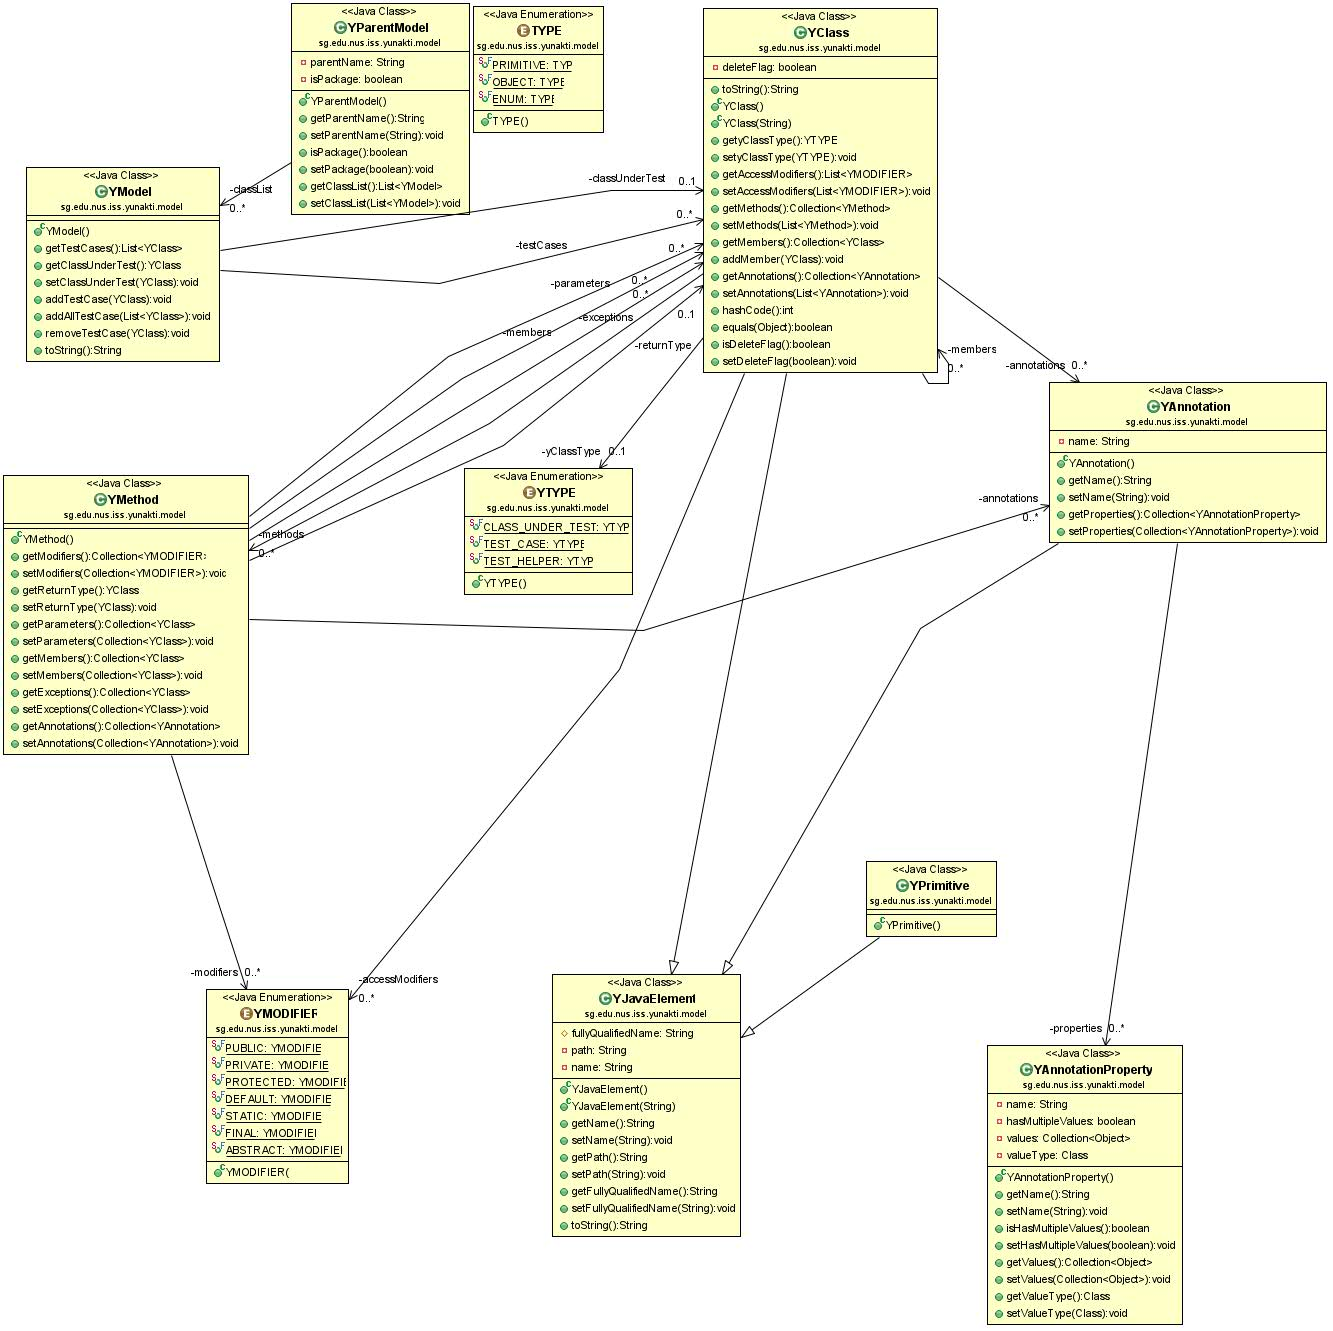
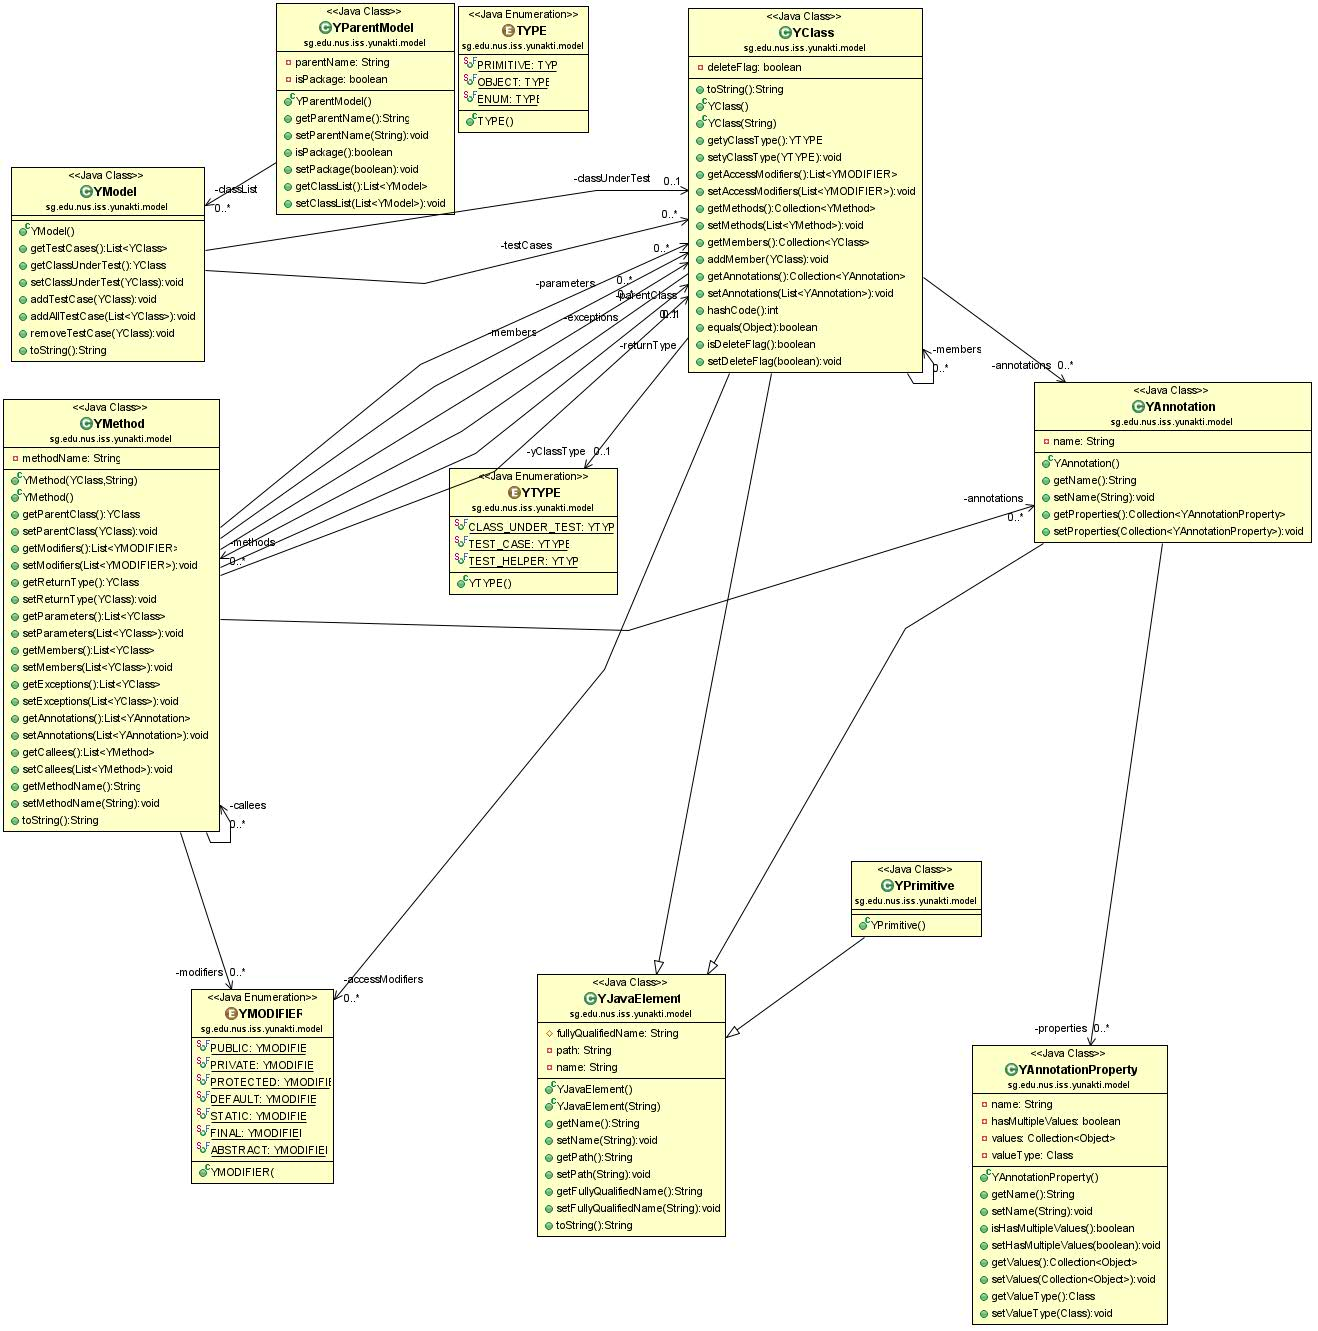
wow git status  all bugs fixed !

diff --git a/src/sg/edu/nus/iss/yunakti/ui/dialog/TestCaseDialog.java b/src/sg/edu/nus/iss/yunakti/ui/dialog/TestCaseDialog.java
@@ -8,6 +8,7 @@ import org.eclipse.jface.dialogs.MessageDialog;
 import org.eclipse.jface.dialogs.TitleAreaDialog;
 import org.eclipse.jface.resource.JFaceResources;
 import org.eclipse.jface.viewers.ArrayContentProvider;
+import org.eclipse.jface.viewers.IStructuredSelection;
 import org.eclipse.jface.viewers.TableViewer;
 import org.eclipse.swt.SWT;
 import org.eclipse.swt.events.FocusEvent;
@@ -44,7 +45,7 @@ import sg.edu.nus.iss.yunakti.ui.view.YunaktiGridView;
  */
 public class TestCaseDialog extends TitleAreaDialog {
 
-	private static Logger logger=Logger.getLogger(Logger.GLOBAL_LOGGER_NAME);
+	private static Logger logger = Logger.getLogger(Logger.GLOBAL_LOGGER_NAME);
 	private TableViewer tableViewer;
 	private Text searchText;
 	private TestCaseFilter filter;
@@ -59,13 +60,14 @@ public class TestCaseDialog extends TitleAreaDialog {
 		dialog = this;
 	}
 
-	public TestCaseDialog(Shell parentShell, YModel model, List<YClass> allClasses , YunaktiGridView gridView) {
+	public TestCaseDialog(Shell parentShell, YModel model,
+			List<YClass> allClasses, YunaktiGridView gridView) {
 		super(parentShell);
 		dialog = this;
 		this.model = model;
 		this.allClasses = allClasses;
 		this.gridView = gridView;
-		
+
 	}
 
 	@Override
@@ -87,7 +89,7 @@ public class TestCaseDialog extends TitleAreaDialog {
 			@Override
 			public void focusGained(FocusEvent e) {
 				logger.fine("R2 focus gained");
-				
+
 			}
 		});
 
@@ -156,15 +158,17 @@ public class TestCaseDialog extends TitleAreaDialog {
 	public void setTableData(YModel model) {
 		this.model = model;
 		this.testClassForCUT = model.getTestCases();
-        logger.fine(model.getTestCases().toString());
+		logger.fine(model.getTestCases().toString());
 		if (model != null) {
-			
+
 			tableViewer.setInput(model.getTestCases());
 			this.refresh();
 		}
 	}
 
-	@Override
+	/**
+	 * Create button handlers for Cancel & Delete button
+	 */
 	protected void createButtonsForButtonBar(Composite parent) {
 		GridData gridData = new GridData();
 		gridData.verticalAlignment = GridData.FILL;
@@ -192,27 +196,45 @@ public class TestCaseDialog extends TitleAreaDialog {
 		Button deleteButton = createButton(parent, SWT.PUSH, "Delete", false);
 		// Add a SelectionListener
 		deleteButton.addSelectionListener(new SelectionAdapter() {
-				
+
 			public void widgetSelected(SelectionEvent e) {
 
-			   logger.fine("Adding Selection Listener for Delete button");
-				
-				YClass class1 = null;
-				for(YClass yClass : model.getTestCases()) {
-					if (tableViewer.getSelection().toString()
-							.contains(yClass.getFullyQualifiedName())) {
-						try {
-							model.removeTestCase(yClass);
-							EngineCore engineCore = new EngineCore();
-							engineCore.writeAnnotation(model);
-							TestCaseDialog.this.setTableData(model);
-							TestCaseDialog.this.tableViewer.refresh();		// Refreshing will happen only after clicking					
-							break;
-						} catch (Exception ex) {
-							ex.printStackTrace();
+				logger.fine("Adding Selection Listener for Delete button");
+
+				IStructuredSelection sel = (IStructuredSelection) tableViewer
+						.getSelection();
+				YClass selectedYClass = (YClass) sel.getFirstElement();
+
+				if (selectedYClass != null) {
+					for (YClass yClass : model.getTestCases()) {
+						if (selectedYClass.getFullyQualifiedName().equals(
+								yClass.getFullyQualifiedName())) {
+							try {
+								// Before writing annotation, set the delete
+								// flag to true and call the removeTestCase in
+								// Model
+								yClass.setDeleteFlag(true);
+								model.removeTestCase(yClass);
+								EngineCore engineCore = new EngineCore();
+								engineCore.writeAnnotation(model);
+
+								// After writing annotation, remove the
+								// testclass actually from the model. Set the
+								// delete flag to false.
+								yClass.setDeleteFlag(false);
+								model.removeTestCase(yClass);
+								// Refreshing will happen only after clicking
+								TestCaseDialog.this.setTableData(model);
+								TestCaseDialog.this.tableViewer.refresh();
+								TestCaseDialog.this.gridView.updateGridView(model);
+								break;
+
+							} catch (Exception ex) {
+								ex.printStackTrace();
+							}
 						}
 					}
-					
+
 				}
 			}
 		});
@@ -220,6 +242,18 @@ public class TestCaseDialog extends TitleAreaDialog {
 		this.setTableData(model);
 	}
 
+	/**
+	 * Button Handler for Ok Button. Adding Click Event Handler for OK Button.
+	 * Calls the pop-up window with all the classes in the project Explorer.
+	 * 
+	 * @param Compsosite
+	 *            parent
+	 * @param int id
+	 * @param String
+	 *            label
+	 * @param boolean defaultButton
+	 * @return
+	 */
 	protected Button createOkButton(Composite parent, int id, String label,
 			boolean defaultButton) {
 		// increment the number of columns in the button bar
@@ -235,11 +269,13 @@ public class TestCaseDialog extends TitleAreaDialog {
 			public void widgetSelected(SelectionEvent e) {
 				if (allClasses != null) {
 					EngineCore engineCore = new EngineCore();
-					List<YClass> allClasses =  engineCore.getAllClassesInWorkspace();
-			
+					List<YClass> allClasses = engineCore
+							.getAllClassesInWorkspace();
+
 					logger.fine("Model ::" + model.toString());
 					FilteredTCSelectionDialog dialog = new FilteredTCSelectionDialog(
-							getShell(), allClasses, model, gridView);
+							getShell(), allClasses, model, gridView,
+							TestCaseDialog.this);
 					dialog.setInitialPattern("?");
 					dialog.open();
 				} else {

diff --git a/src/sg/edu/nus/iss/yunakti/model/YClass.java b/src/sg/edu/nus/iss/yunakti/model/YClass.java
@@ -14,14 +14,13 @@ public class YClass extends YJavaElement{
 	private YTYPE yClassType; //test/helper/cut
 	@Override
 	public String toString() {
-		return "Class name : "+getFullyQualifiedName() + "  : Methods : "+ methods.toString() + ":  Methods to be annotated : "+methodsToBeAnnotated;
+		return ReflectionToStringBuilder.toString(this);
 	}
 
 	private List<YMODIFIER> accessModifiers;
-	private List<YMethod> methods=new ArrayList<YMethod>(); // in case of testcase, this is the individual testmethod - eg. testM1
+	private List<YMethod> methods=new ArrayList<YMethod>();
 	private Set<YClass> members=new HashSet<YClass>(); //common name for helpers/instance primitives in testcases and instance variables in normal classes
 	private List<YAnnotation> annotations=new ArrayList<YAnnotation>();
-	private List<YMethod> methodsToBeAnnotated=new ArrayList<YMethod>();
 	
 	private boolean deleteFlag;
 	
@@ -98,29 +97,6 @@ public class YClass extends YJavaElement{
 	public void setDeleteFlag(boolean deleteFlag) {
 		this.deleteFlag = deleteFlag;
 	}
-
-	public void addMethod(YMethod testMethod) {
-		this.methods.add(testMethod);
-	}
-
-	public void addMethodToBeAnnotated(YMethod testMethod) {
-		this.methodsToBeAnnotated.add(testMethod);
-		
-	}
-
-	public List<YMethod> getMethodsToBeAnnotated() {
-		return methodsToBeAnnotated;
-	}
-
-	public void setMethodsToBeAnnotated(List<YMethod> methodsToBeAnnotated) {
-		this.methodsToBeAnnotated = methodsToBeAnnotated;
-	}
-
-	public void setMembers(Set<YClass> members) {
-		this.members = members;
-	}
-	
-	
 
 	
 }

diff --git a/src/sg/edu/nus/iss/yunakti/ui/dialog/FilteredTCSelectionDialog.java b/src/sg/edu/nus/iss/yunakti/ui/dialog/FilteredTCSelectionDialog.java
@@ -31,14 +31,16 @@ public class FilteredTCSelectionDialog extends FilteredItemsSelectionDialog {
 	Shell parentShell;
 	private YModel model;
 	private YunaktiGridView gridView;
+	private TestCaseDialog testCaseDialog;
 	private static Logger logger=Logger.getLogger(Logger.GLOBAL_LOGGER_NAME);
 
-	public FilteredTCSelectionDialog(Shell shell, List<YClass> allTestClasses, YModel model, YunaktiGridView view) {
+	public FilteredTCSelectionDialog(Shell shell, List<YClass> allTestClasses, YModel model, YunaktiGridView view, TestCaseDialog testCaseDialog) {
 		super(shell);
 		this.parentShell = shell;
 		this.allTestClasses = allTestClasses;
 		this.model = model;
 		this.gridView = view;
+		this.testCaseDialog = testCaseDialog;
 		setTitle("Add new Test Class");
 	}
 
@@ -143,8 +145,10 @@ public class FilteredTCSelectionDialog extends FilteredItemsSelectionDialog {
 			}
 			// Dont add duplicate test class again.
 			if(found == false){
-				model.addTestCase(class1);
+				model.addTestCase(class1);				
 				gridView.updateGridView(model);
+			    this.testCaseDialog.setTableData(model);
+				parentShell.update();				
 				parentShell.forceFocus();
 				try{
 				EngineCore engineCore = new EngineCore();

diff --git a/src/sg/edu/nus/iss/yunakti/model/YModel.java b/src/sg/edu/nus/iss/yunakti/model/YModel.java
@@ -35,8 +35,11 @@ public class YModel implements Serializable{
 	
 	public void removeTestCase(YClass testCase){
 		this.testCases.remove(testCase);
-		testCase.setDeleteFlag(true);
-		this.testCases.add(testCase);
+		if(testCase.isDeleteFlag()) {
+			testCase.setDeleteFlag(true);
+			this.testCases.add(testCase);
+		}
+		
 	}
 	
 	@Override
